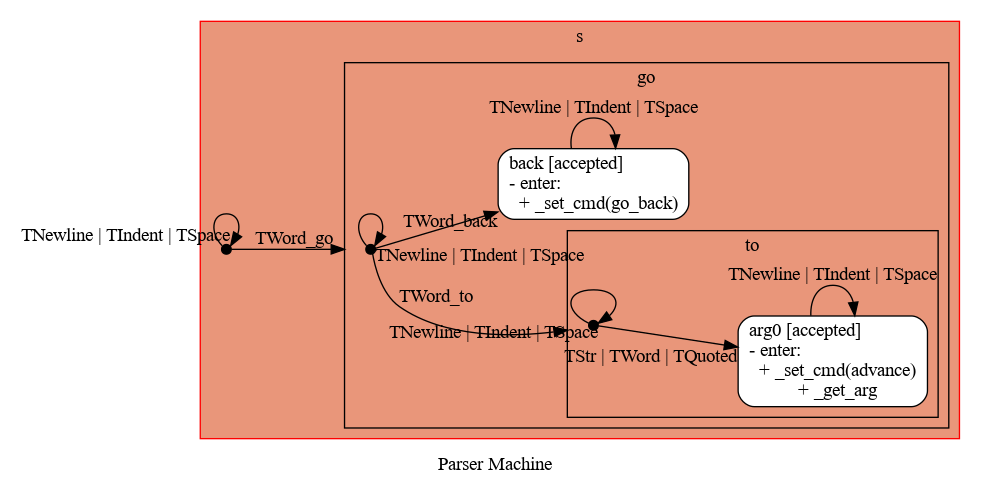
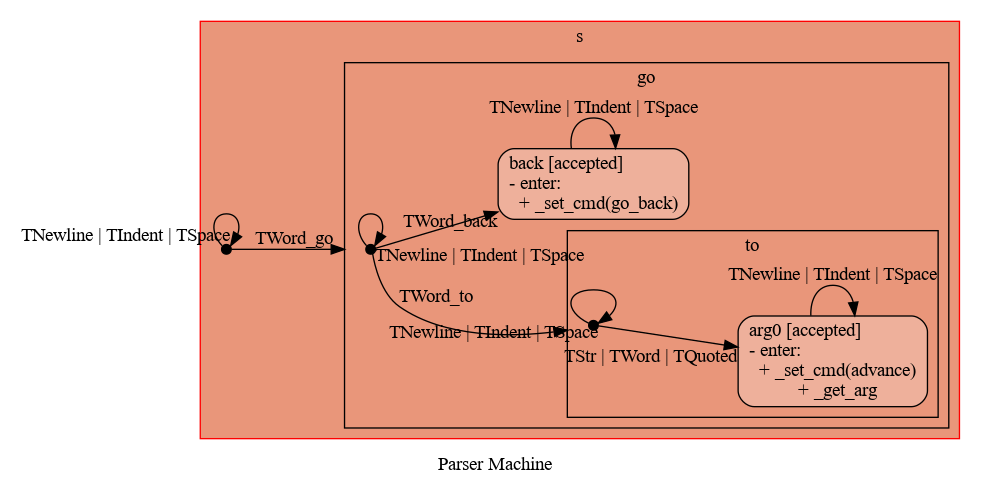
feat(fsm_utils.py): make "white"-"filled" objects semi-transparent
* regenerate all FSM images

Changed region(s): [[0.7265, 0.6415, 0.9384, 0.8248], [0.4844, 0.3055, 0.6963, 0.4582]]

diff --git a/toc/fsm_utils.py b/toc/fsm_utils.py
@@ -30,6 +30,15 @@ for attrs in ["hierarchical_machine_attributes", "machine_attributes"]:
         pad="0.222,0.111",  # default: 0.0555
     )
 
+# make the "white" objects in the generated graph semi-transparent
+style_attrs = cast(Dict[str, Dict[str, Dict[str, str]]],
+                   GraphMachine.style_attributes)
+for states in style_attrs.values():
+    for attrs in states.values():
+        for k, v in attrs.items():
+            if k == "fillcolor" and v == "white":
+                attrs[k] = "#ffffff3f"
+
 
 # Types
 
